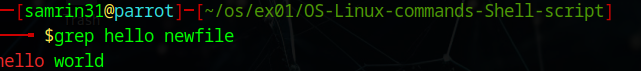
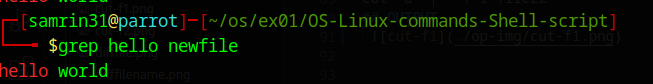
ex01-cut

diff --git a/README.md b/README.md
@@ -59,7 +59,7 @@ comm file1 file2
  
 diff file1 file2
 ## OUTPUT
- ![diffile](./op-img/cmp-op.png)
+ ![diffile](./op-img/difffilename.png)
 
 #Filters
 
@@ -82,18 +82,18 @@ cat > file22
 
 cut -c1-3 file11
 ## OUTPUT
- ![cut-c13](./op-img/cmp-op.png)
+ ![cut-c13](./op-img/cut-c13.png)
 
 
 
 cut -d "|" -f 1 file22
 ## OUTPUT
- ![cut-f1](./op-img/cmp-op.png)
+ ![cut-f1](./op-img/cut-f1.png)
 
 
 cut -d "|" -f 2 file22
 ## OUTPUT
- ![cut-f2](./op-img/cmp-op.png)
+ ![cut-f2](./op-img/cut-f2.png)
 
 cat < newfile 
 ```
@@ -107,41 +107,40 @@ hello world
  
 grep Hello newfile 
 ## OUTPUT
- ![cut-f3](./op-img/cmp-op.png)
+ ![cut-f3](./op-img/grepH.png)
 
 
 grep hello newfile 
 ## OUTPUT
- ![cut-f4](./op-img/cmp-op.png)
+ ![cut-f4](./op-img/greph.png)
 
 
 
 grep -v hello newfile 
 ## OUTPUT
- ![cut-f5](./op-img/cmp-op.png)
+ ![cut-f5](./op-img/grep-v.png)
 
 
 cat newfile | grep -i "hello"
 ## OUTPUT
- ![cut-f6](./op-img/cmp-op.png)
+ ![cut-f6](./op-img/grep-%20-i.png)
 
 
 
 cat newfile | grep -i -c "hello"
 ## OUTPUT
-
-
+ ![cut-f7](./op-img/grep-i-c.png)
 
 
 grep -R ubuntu /etc
 ## OUTPUT
-
-
+ ![cut-f8](./op-img/grep-w.png)
 
 grep -w -n world newfile   
 ## OUTPUT
+ ![cut-f9](./op-img/grep-R.png)
 
-
+ 
 cat < newfile 
 ```
 Hello world
